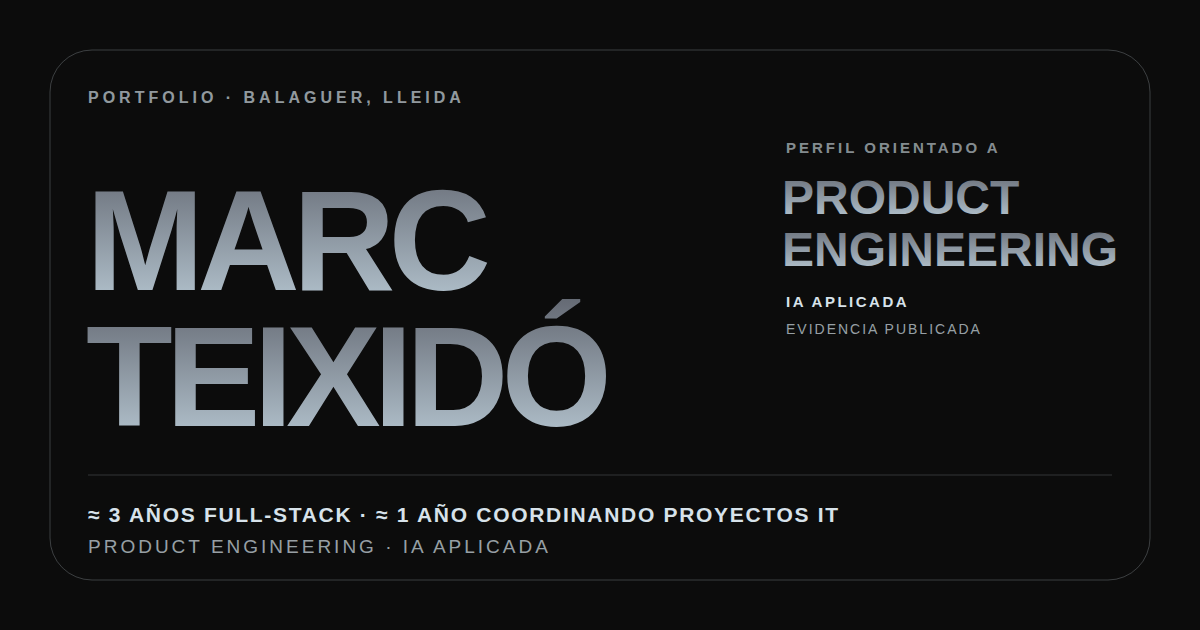
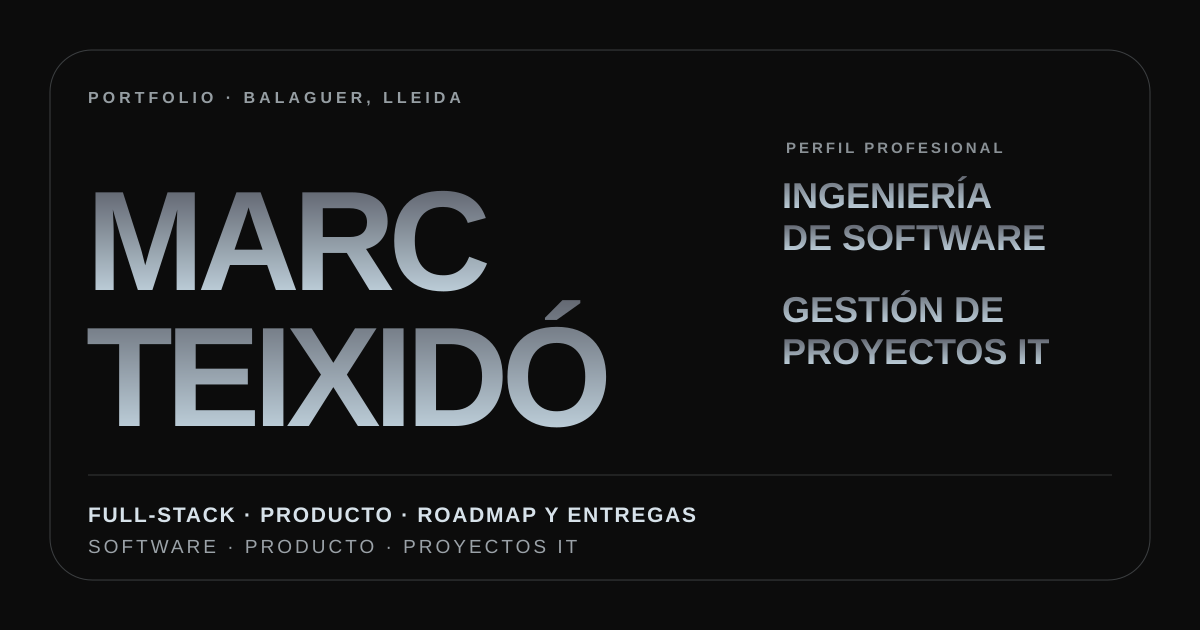
Codex/formation image external links (#19)
* Add course badge and open external links in new tabs

* Highlight university education in the formation section

* Refine contact copy to emphasize IT project management

* Align portfolio copy with software and IT project roles

* Show professional headline as subtitle beneath name

* Update landing image count in performance regression

diff --git a/src/data/portfolio.ts b/src/data/portfolio.ts
@@ -1,4 +1,4 @@
-export const PROFILE_SOURCE_ID = 'profile-2026-08-10' as const
+export const PROFILE_SOURCE_ID = 'profile-2026-09-16' as const
 export const PROJECT_SOURCE_ID = 'public-projects-2026-09-16' as const
 
 export type ProfileFact = {
@@ -90,7 +90,7 @@ export type ProfessionalProfile = {
 export const professionalProfile: ProfessionalProfile = {
   source: {
     id: PROFILE_SOURCE_ID,
-    reviewedAt: '2026-08-10',
+    reviewedAt: '2026-09-16',
     visibility: 'public',
     authority: 'Fuente factual proporcionada por Marc Teixidó Rosauro.',
   },
@@ -99,25 +99,25 @@ export const professionalProfile: ProfessionalProfile = {
     displayName: 'Marc Teixidó',
     location: 'Balaguer, Lleida',
     headline: 'Ingeniero de software y responsable de proyectos IT',
-    positioning: 'Perfil orientado a Product Engineering con foco en IA aplicada',
-    summary: 'Desarrollo software y coordino proyectos desde las necesidades de producto hasta la entrega. Incorporo automatización e IA a procesos de documentación, contenido y monitorización.',
-    aboutIntro: 'He trabajado en desarrollo full-stack, migración de plataformas y coordinación de servicios web, móviles y cloud. Esa experiencia conecta mis decisiones técnicas con las necesidades del producto y del equipo.',
+    positioning: 'Ingeniería de software y gestión de proyectos IT con orientación a producto',
+    summary: 'Desarrollo software y lidero proyectos IT, conectando necesidades de negocio, decisiones técnicas y entrega. Mi experiencia combina desarrollo full-stack con la gestión del roadmap, la coordinación entre departamentos y la ejecución con desarrolladores externos.',
+    aboutIntro: 'Mi trayectoria combina desarrollo de aplicaciones de negocio, migración de plataformas y responsabilidad sobre un producto IoT. Además, desarrollo productos propios, manteniendo una práctica técnica activa y una perspectiva que conecta software, producto y negocio.',
     seo: {
-      title: 'Marc Teixidó — Product Engineering e IA aplicada',
-      description: 'Ingeniería de software, coordinación de proyectos IT e IA aplicada. Experiencia, proyectos y formación de Marc Teixidó, en Balaguer, Lleida.',
-      imageAlt: 'Marc Teixidó — Product Engineering, cerca de 3 años full-stack, alrededor de 1 año coordinando proyectos IT e IA aplicada',
+      title: 'Marc Teixidó — Ingeniería de software y proyectos IT',
+      description: 'Desarrollo full-stack, orientación a producto y gestión de proyectos IT. Experiencia, proyectos y formación de Marc Teixidó.',
+      imageAlt: 'Marc Teixidó — Ingeniero de software y responsable de proyectos IT, con experiencia en desarrollo full-stack y gestión del roadmap.',
     },
   },
   facts: [
     {
-      label: 'Desarrollo full-stack',
-      value: '≈ 3 años',
-      context: 'Software de negocio, datos, despliegues e infraestructura entre 2022 y 2025.',
+      label: 'Desarrollo de software',
+      value: 'Full-stack',
+      context: 'Aplicaciones de negocio con Django, procesos asíncronos, datos y despliegues.',
     },
     {
-      label: 'Liderazgo de proyectos IT',
-      value: '≈ 1 año',
-      context: 'Responsable de proyectos IT en Taurus Research & Development desde 2025.',
+      label: 'Gestión de proyectos IT',
+      value: 'Roadmap y ejecución',
+      context: 'Coordinación entre departamentos y desarrolladores externos, desde las necesidades de producto hasta las entregas.',
     },
   ],
   experience: [
@@ -129,7 +129,7 @@ export const professionalProfile: ProfessionalProfile = {
       endDate: null,
       period: '2025 — Actualidad',
       location: 'Cataluña',
-      summary: 'Coordino el roadmap y el desarrollo de un ecosistema internacional de servicios web, móviles y cloud para un producto de cocina conectado. Trabajo con dirección, distribuidores y desarrolladores externos, traduciendo necesidades de producto en especificaciones, prioridades y entregas. También introduzco automatizaciones con IA en procesos de documentación, contenido y monitorización.',
+      summary: 'Soy responsable del roadmap de un producto IoT con servicios web, móviles y cloud. Coordino su ejecución con desarrolladores externos y hago seguimiento de las entregas. Trabajo con atención al cliente, marketing y comercial para traducir las necesidades del producto en prioridades de desarrollo. Colaboro también con dirección y distribuidores en un entorno internacional. Además, incorporo automatizaciones con IA en procesos de documentación, contenido y monitorización.',
       sourceId: PROFILE_SOURCE_ID,
     },
     {
@@ -140,7 +140,7 @@ export const professionalProfile: ProfessionalProfile = {
       endDate: '2025-06',
       period: '2022 — 2025',
       location: 'Cataluña',
-      summary: 'Fui responsable de migrar la plataforma interna de la empresa a una arquitectura más moderna y escalable. Desarrollé funcionalidades de CRM y ERP, procesos asíncronos con Celery y RabbitMQ, dashboards y modelos predictivos sobre datos de sensores. También gestioné despliegues, migraciones y entornos de test y producción.',
+      summary: 'Fui responsable de la migración de la plataforma interna de la empresa. Desarrollé funcionalidades de CRM y ERP con Django, procesos asíncronos con Celery y RabbitMQ, dashboards y modelos predictivos sobre datos de sensores. Gestioné también despliegues, migraciones y entornos de pruebas y producción.',
       sourceId: PROFILE_SOURCE_ID,
     },
   ],
@@ -149,12 +149,12 @@ export const professionalProfile: ProfessionalProfile = {
     institution: 'Universitat de Lleida',
     startYear: 2018,
     endYear: 2022,
-    context: 'El grado me dio una base transversal en electrónica, automatización y programación. Durante esos años orienté cada vez más mi trabajo hacia el desarrollo de software, los datos y los sistemas conectados.',
+    context: 'El grado me dio una base transversal en electrónica, automatización y programación. Orienté mis optativas hacia el Internet de las Cosas (IoT), la programación y las comunicaciones.',
   },
   languages: [
     { language: 'Catalán', level: 'Nativo', context: 'Uso habitual en entornos personales y profesionales.' },
     { language: 'Español', level: 'Nativo', context: 'Uso habitual en entornos personales y profesionales.' },
-    { language: 'Inglés', level: 'Uso profesional', context: 'Reuniones, documentación y comunicación técnica con equipos y distribuidores internacionales. Sin certificación oficial.' },
+    { language: 'Inglés', level: 'Uso profesional', context: 'Reuniones, documentación y comunicación técnica con equipos y distribuidores internacionales.' },
   ],
   projects: [
     {
@@ -163,12 +163,12 @@ export const professionalProfile: ProfessionalProfile = {
       aliases: ['Ainki'],
       category: 'Producto educativo personal',
       status: 'En desarrollo',
-      availability: 'Landing pública. La aplicación interna todavía no está abierta al público.',
+      availability: 'Presentación y demo públicas. Aplicación interna en desarrollo, todavía sin acceso público.',
       website: 'https://ainkii.mteixido.dev/',
-      websiteLabel: 'Abrir Ainkii',
+      websiteLabel: 'Ver presentación y demo',
       logo: { src: '/media/projects/ainkii-logo.svg', width: 320, height: 100 },
       href: '/proyectos/ainkii/',
-      teaser: 'Contenido, tarjetas de práctica y seguimiento del aprendizaje en un mismo espacio para alumnos y academias. La IA ayuda a preparar materiales bajo revisión humana.',
+      teaser: 'Desarrollo una plataforma educativa que conecta contenidos, tarjetas de práctica y seguimiento del aprendizaje para alumnos y academias. La propuesta incorpora IA para preparar materiales bajo revisión docente.',
       description: 'Estoy desarrollando Ainkii para conectar lo que una academia enseña con lo que sus alumnos comprenden y practican: temarios estructurados, tarjetas vinculadas al contenido y seguimiento del aprendizaje.',
       focus: 'Entender, practicar y reconocer el avance.',
       tags: ['Aprendizaje conectado', 'IA editorial', 'Alumnos y academias'],
@@ -194,7 +194,7 @@ export const professionalProfile: ProfessionalProfile = {
       websiteLabel: 'Abrir ButiPunt',
       logo: { src: '/media/projects/butipunt-logo.svg', width: 320, height: 100 },
       href: '/proyectos/butipunt/',
-      teaser: 'Una aplicación para organizar torneos de butifarra: inscribir parejas, preparar rondas, anotar resultados y consultar la clasificación desde el navegador, sin crear una cuenta.',
+      teaser: 'He creado una aplicación web para organizar torneos presenciales de butifarra: inscripción de parejas, emparejamientos, resultados y clasificación, sin registro y con guardado local.',
       description: 'He creado ButiPunt para llevar la organización de un torneo de butifarra de principio a fin. Reúne parejas, mesas, rondas y clasificación, mientras las partidas se juegan presencialmente.',
       focus: 'El juego, en la mesa. El torneo, organizado.',
       tags: ['Torneos de butifarra', 'Sin registro', 'Guardado local'],

diff --git a/tests/unit/profile.test.ts b/tests/unit/profile.test.ts
@@ -7,26 +7,26 @@ describe('professional profile source', () => {
       fullName: 'Marc Teixidó Rosauro',
       location: 'Balaguer, Lleida',
       headline: 'Ingeniero de software y responsable de proyectos IT',
-      positioning: 'Perfil orientado a Product Engineering con foco en IA aplicada',
-      summary: 'Desarrollo software y coordino proyectos desde las necesidades de producto hasta la entrega. Incorporo automatización e IA a procesos de documentación, contenido y monitorización.',
-      aboutIntro: 'He trabajado en desarrollo full-stack, migración de plataformas y coordinación de servicios web, móviles y cloud. Esa experiencia conecta mis decisiones técnicas con las necesidades del producto y del equipo.',
+      positioning: 'Ingeniería de software y gestión de proyectos IT con orientación a producto',
+      summary: 'Desarrollo software y lidero proyectos IT, conectando necesidades de negocio, decisiones técnicas y entrega. Mi experiencia combina desarrollo full-stack con la gestión del roadmap, la coordinación entre departamentos y la ejecución con desarrolladores externos.',
+      aboutIntro: 'Mi trayectoria combina desarrollo de aplicaciones de negocio, migración de plataformas y responsabilidad sobre un producto IoT. Además, desarrollo productos propios, manteniendo una práctica técnica activa y una perspectiva que conecta software, producto y negocio.',
       seo: {
-        title: 'Marc Teixidó — Product Engineering e IA aplicada',
-        description: 'Ingeniería de software, coordinación de proyectos IT e IA aplicada. Experiencia, proyectos y formación de Marc Teixidó, en Balaguer, Lleida.',
-        imageAlt: 'Marc Teixidó — Product Engineering, cerca de 3 años full-stack, alrededor de 1 año coordinando proyectos IT e IA aplicada',
+        title: 'Marc Teixidó — Ingeniería de software y proyectos IT',
+        description: 'Desarrollo full-stack, orientación a producto y gestión de proyectos IT. Experiencia, proyectos y formación de Marc Teixidó.',
+        imageAlt: 'Marc Teixidó — Ingeniero de software y responsable de proyectos IT, con experiencia en desarrollo full-stack y gestión del roadmap.',
       },
     })
     expect(professionalProfile.source.id).toBe(PROFILE_SOURCE_ID)
     expect(professionalProfile.facts).toEqual([
       {
-        label: 'Desarrollo full-stack',
-        value: '≈ 3 años',
-        context: 'Software de negocio, datos, despliegues e infraestructura entre 2022 y 2025.',
+        label: 'Desarrollo de software',
+        value: 'Full-stack',
+        context: 'Aplicaciones de negocio con Django, procesos asíncronos, datos y despliegues.',
       },
       {
-        label: 'Liderazgo de proyectos IT',
-        value: '≈ 1 año',
-        context: 'Responsable de proyectos IT en Taurus Research & Development desde 2025.',
+        label: 'Gestión de proyectos IT',
+        value: 'Roadmap y ejecución',
+        context: 'Coordinación entre departamentos y desarrolladores externos, desde las necesidades de producto hasta las entregas.',
       },
     ])
   })
@@ -38,12 +38,12 @@ describe('professional profile source', () => {
     ])
     expect(professionalProfile.experience[0]).toMatchObject({
       role: 'Responsable de proyectos IT',
-      summary: 'Coordino el roadmap y el desarrollo de un ecosistema internacional de servicios web, móviles y cloud para un producto de cocina conectado. Trabajo con dirección, distribuidores y desarrolladores externos, traduciendo necesidades de producto en especificaciones, prioridades y entregas. También introduzco automatizaciones con IA en procesos de documentación, contenido y monitorización.',
+      summary: 'Soy responsable del roadmap de un producto IoT con servicios web, móviles y cloud. Coordino su ejecución con desarrolladores externos y hago seguimiento de las entregas. Trabajo con atención al cliente, marketing y comercial para traducir las necesidades del producto en prioridades de desarrollo. Colaboro también con dirección y distribuidores en un entorno internacional. Además, incorporo automatizaciones con IA en procesos de documentación, contenido y monitorización.',
       location: 'Cataluña',
     })
     expect(professionalProfile.experience[1]).toMatchObject({
       role: 'Desarrollador full-stack con Django',
-      summary: 'Fui responsable de migrar la plataforma interna de la empresa a una arquitectura más moderna y escalable. Desarrollé funcionalidades de CRM y ERP, procesos asíncronos con Celery y RabbitMQ, dashboards y modelos predictivos sobre datos de sensores. También gestioné despliegues, migraciones y entornos de test y producción.',
+      summary: 'Fui responsable de la migración de la plataforma interna de la empresa. Desarrollé funcionalidades de CRM y ERP con Django, procesos asíncronos con Celery y RabbitMQ, dashboards y modelos predictivos sobre datos de sensores. Gestioné también despliegues, migraciones y entornos de pruebas y producción.',
       location: 'Cataluña',
     })
     expect(professionalProfile.experience.every(entry => entry.sourceId === PROFILE_SOURCE_ID)).toBe(true)
@@ -59,7 +59,7 @@ describe('professional profile source', () => {
     expect(ainkii).toMatchObject({
       href: '/proyectos/ainkii/',
       website: 'https://ainkii.mteixido.dev/',
-      availability: 'Landing pública. La aplicación interna todavía no está abierta al público.',
+      availability: 'Presentación y demo públicas. Aplicación interna en desarrollo, todavía sin acceso público.',
     })
     expect(butipunt).toMatchObject({
       canonicalName: 'ButiPunt',
@@ -87,12 +87,12 @@ describe('professional profile source', () => {
       institution: 'Universitat de Lleida',
       startYear: 2018,
       endYear: 2022,
-      context: 'El grado me dio una base transversal en electrónica, automatización y programación. Durante esos años orienté cada vez más mi trabajo hacia el desarrollo de software, los datos y los sistemas conectados.',
+      context: 'El grado me dio una base transversal en electrónica, automatización y programación. Orienté mis optativas hacia el Internet de las Cosas (IoT), la programación y las comunicaciones.',
     })
     expect(professionalProfile.languages).toEqual(expect.arrayContaining([
       expect.objectContaining({ language: 'Catalán', level: 'Nativo', context: 'Uso habitual en entornos personales y profesionales.' }),
       expect.objectContaining({ language: 'Español', level: 'Nativo', context: 'Uso habitual en entornos personales y profesionales.' }),
-      expect.objectContaining({ language: 'Inglés', level: 'Uso profesional', context: 'Reuniones, documentación y comunicación técnica con equipos y distribuidores internacionales. Sin certificación oficial.' }),
+      expect.objectContaining({ language: 'Inglés', level: 'Uso profesional', context: 'Reuniones, documentación y comunicación técnica con equipos y distribuidores internacionales.' }),
     ]))
   })
 })

diff --git a/tests/e2e/site.spec.ts b/tests/e2e/site.spec.ts
@@ -51,9 +51,12 @@ test('landing makes projects, formation and contact discoverable', async ({ page
   await expect(page.getByRole('heading', { level: 1, name: 'Marc Teixidó', exact: true })).toBeVisible()
   await expect(page.getByText(professionalProfile.identity.headline, { exact: true })).toBeVisible()
   await expect(page.getByText(professionalProfile.identity.summary, { exact: true })).toBeVisible()
+  const currentEmployment = professionalProfile.experience.find(entry => entry.endDate === null)!
+  await expect(page.locator('section[aria-labelledby="hero-title"]')).not.toContainText(currentEmployment.company)
+  await expect(page.locator('#about')).toContainText(currentEmployment.company)
   await expect(navigation.locator('a')).toHaveText(['Perfil', 'Proyectos', 'Formación', 'Contacto'])
   for (const id of ['about', 'projects', 'formacion', 'contact']) await expect(page.locator(`#${id}`)).toBeVisible()
-  await expect(page.getByRole('link', { name: 'Explorar el aprendizaje', exact: true })).toHaveAttribute('href', '/aprendizaje/')
+  await expect(page.getByRole('link', { name: 'Ver apuntes y ejemplos', exact: true })).toHaveAttribute('href', '/aprendizaje/')
   for (const project of professionalProfile.projects) {
     await expect(page.getByRole('link', { name: `Conocer ${project.canonicalName}`, exact: true })).toHaveAttribute('href', project.href)
     await expect(page.getByRole('link', { name: project.websiteLabel, exact: true })).toHaveAttribute('href', project.website)
@@ -69,7 +72,17 @@ test('landing makes projects, formation and contact discoverable', async ({ page
   await expect(page.locator('#formacion')).toContainText('En curso · IBM / Coursera')
   await expect(page.locator('#formacion')).toContainText('Estoy cursando esta especialización')
   await expect(page.locator('#formacion')).not.toContainText('AWS')
-  await expect(page.locator('#formacion article')).toHaveCount(1)
+  await expect(page.locator('#formacion article')).toHaveCount(2)
+  const formationCards = await page.locator('#formacion article').evaluateAll(cards => cards.map(card => {
+    const bounds = card.getBoundingClientRect()
+    const container = card.parentElement!.getBoundingClientRect()
+    return { left: bounds.left, right: bounds.right, containerLeft: container.left, containerRight: container.right }
+  }))
+  for (const card of formationCards) {
+    expect(card.left).toBeGreaterThanOrEqual(card.containerLeft - 1)
+    expect(card.right).toBeLessThanOrEqual(card.containerRight + 1)
+  }
+  await expect(page.locator('#formacion article').first()).toContainText(professionalProfile.education.qualification)
   await expect(page.locator('a[href="/career-sprint-daily/"], a[href="/roadmap/"]')).toHaveCount(0)
   expect(remoteRequests).toEqual([])
 })
@@ -96,10 +109,10 @@ test('mobile navigation labels fit inside their own targets', async ({ page }, i
 test('learning follows the courses with inline explanations and stable earlier URLs', async ({ page }, info) => {
   test.skip(!['chromium', 'chromium-mobile-320', 'chromium-js-off'].includes(info.project.name))
   await page.goto('/')
-  await expect(page.locator('#about [data-education]')).toContainText(professionalProfile.education.qualification)
-  await expect(page.locator('#formacion')).not.toContainText(professionalProfile.education.qualification)
+  await expect(page.locator('#formacion [data-education]')).toContainText(professionalProfile.education.qualification)
+  await expect(page.locator('#about')).not.toContainText(professionalProfile.education.qualification)
   await expect(page.getByText(professionalProfile.education.qualification, { exact: false })).toHaveCount(1)
-  await page.getByRole('link', { name: 'Explorar el aprendizaje', exact: true }).click()
+  await page.getByRole('link', { name: 'Ver apuntes y ejemplos', exact: true }).click()
   await expect(page.getByRole('heading', { level: 1, name: 'Aprender a construir con LLMs' })).toBeVisible()
   await expect(page.locator('.course-section')).toHaveCount(4)
   await expect(page.locator('.course-section:visible')).toHaveCount(1)
@@ -153,7 +166,7 @@ test('pending courses remain visible but cannot be opened, including by direct h
     const pending = nav.getByRole('button', { name: new RegExp(course.title) })
     await expect(pending).toBeVisible()
     await expect(pending).toBeDisabled()
-    await expect(pending).toContainText('Pendiente')
+    await expect(pending).toContainText('Contenido no publicado')
     await pending.click({ force: true })
     await expect(page).toHaveURL(/#curso-4$/)
     await expect(page.locator('.course-section:visible')).toHaveAttribute('id', 'curso-4')
@@ -383,7 +396,7 @@ test('primary navigation moves focus to visible landing anchors', async ({ page,
   await page.goto('/')
   await navigation.getByRole('link', { name: 'Formación', exact: true }).click()
   await expect(page).toHaveURL(/\/#formacion$/)
-  await expect(page.getByRole('heading', { name: 'IA generativa', exact: true })).toBeFocused()
+  await expect(page.getByRole('heading', { level: 2, name: 'Formación', exact: true })).toBeFocused()
 
   await page.goto('/')
   const contactLink = navigation.getByRole('link', { name: 'Contacto', exact: true })
@@ -441,10 +454,10 @@ test('project navigation completes native transitions and respects reduced motio
     }
     await page.getByRole('link', { name: 'Volver a los proyectos', exact: true }).first().click()
     await expect(page).toHaveURL(/\/#projects$/)
-    await expect(page.getByRole('heading', { name: 'Ideas en práctica', exact: true })).toBeInViewport()
+    await expect(page.getByRole('heading', { name: 'Proyectos de software', exact: true })).toBeInViewport()
     if (javaScriptEnabled !== false) {
       await expect(page.locator('html')).toHaveAttribute('data-transition-result', info.project.name === 'chromium-reduced-motion' ? 'none' : 'finished')
-      await expect(page.getByRole('heading', { name: 'Ideas en práctica', exact: true })).toBeFocused()
+      await expect(page.getByRole('heading', { name: 'Proyectos de software', exact: true })).toBeFocused()
     }
   }
 })

diff --git a/tests/static-output.test.ts b/tests/static-output.test.ts
@@ -132,7 +132,7 @@ describe('static output', () => {
         expect(index).not.toContain(`id="${course.id}"`)
         expect(index).not.toContain(`href="#${course.id}"`)
         expect(index).not.toContain(escapeHtmlText(course.description))
-        expect(index).toContain(`${escapeHtmlText(course.title)}<small>Pendiente</small>`)
+        expect(index).toContain(`${escapeHtmlText(course.title)}<small>Contenido no publicado</small>`)
       }
     }
     for (const id of conceptIds) {
@@ -152,14 +152,15 @@ describe('static output', () => {
     expect(statSync(join(dist, 'og-card.svg')).size).toBeGreaterThan(500)
     expect(statSync(join(dist, 'og-card.png')).size).toBeGreaterThan(10_000)
     const currentEmployment = professionalProfile.experience.find(entry => entry.endDate === null)!
-    expect(html).toContain(`${currentEmployment.role} en ${escapeHtmlText(currentEmployment.company)}`)
+    expect(html).toContain(escapeHtmlText(currentEmployment.company))
+    expect(html).not.toContain(`${currentEmployment.role} en ${escapeHtmlText(currentEmployment.company)}`)
     expect(html).toContain(professionalProfile.identity.seo.description)
     expect(html).toContain(professionalProfile.identity.seo.imageAlt)
     expect(ogCard).toContain('PORTFOLIO · BALAGUER, LLEIDA')
-    expect(ogCard).toContain('Product Engineering e IA aplicada')
-    expect(ogCard).toContain('PRODUCT ENGINEERING · IA APLICADA')
-    expect(ogCard).toContain('≈ 3 AÑOS FULL-STACK · ≈ 1 AÑO COORDINANDO PROYECTOS IT')
-    expect(ogCard).toContain('EVIDENCIA PUBLICADA')
+    expect(ogCard).toContain('Ingeniería de software y proyectos IT')
+    expect(ogCard).toContain('SOFTWARE · PRODUCTO · PROYECTOS IT')
+    expect(ogCard).toContain('FULL-STACK · PRODUCTO · ROADMAP Y ENTREGAS')
+    expect(ogCard).toContain('PERFIL PROFESIONAL')
     expect(ogCard.toUpperCase()).not.toContain('AINKII')
     expect(ogCard).not.toContain('id="panel"')
     expect(ogCard).not.toContain('CATALUÑA')

diff --git a/tests/e2e/performance.spec.ts b/tests/e2e/performance.spec.ts
@@ -84,7 +84,8 @@ test('@performance landing keeps a bounded first-party document', async ({ page 
     }
   })
   expect(report.elements).toBeLessThan(700)
-  expect(report.images).toBe(2)
+  // Two project logos, plus the university and ongoing specialization images.
+  expect(report.images).toBe(4)
   expect(report.thirdParty).toEqual([])
   expect(report.transfer).toBeLessThan(750 * 1024)
 })

diff --git a/src/data/README.md b/src/data/README.md
@@ -4,9 +4,13 @@ El sitio es estático: el perfil y el catálogo de cursos viven en TypeScript; l
 
 ## Formación y aprendizaje por cursos
 
-La portada presenta experiencia, Ainkii y ButiPunt, formación continua y contacto. El grado universitario aparece una sola vez en el perfil; `FormationSection.astro` presenta la especialización IBM/Coursera como formación en curso. El bloque de formación prevista en AWS se ha retirado.
+La portada presenta experiencia, Ainkii y ButiPunt, formación académica y continua y contacto. `FormationSection.astro` presenta primero el grado en Ingeniería Electrónica Industrial y Automática, en una tarjeta destacada con la Universitat de Lleida, el periodo 2018–2022 y el contexto de `professionalProfile.education`. El grado aparece una sola vez en la portada y ya no se incluye en Experiencia. Debajo se presenta la especialización IBM/Coursera como formación en curso. El bloque de formación prevista en AWS se ha retirado.
 
-`src/data/learningCourses.ts` define los siete cursos de Generative AI Engineering with LLMs, en el orden del programa oficial de IBM consultado el 7 de septiembre de 2026. Cada entrada conserva el título y enlace oficiales, una explicación propia en español y conceptos o diagramas. `available` controla si se publica su contenido: los cursos 1–4 están disponibles; los cursos 5–7 aparecen como botones deshabilitados con la etiqueta «Pendiente» y su contenido no se emite. La disponibilidad de una explicación no acredita la finalización del curso ni una certificación.
+El emblema circular de la Universitat de Lleida — Escola Politècnica Superior procede de la imagen proporcionada por el propietario el 16 de septiembre de 2026. El original se conserva en `src/assets/universitat-lleida-eps.png`; Astro genera una versión PNG a su tamaño nativo de 364 × 364 píxeles para servirlo localmente. Se mantienen las proporciones y los colores, dentro de un marco blanco cuadrado con esquinas redondeadas, del mismo tamaño y con el mismo margen interior que la imagen de IBM/Coursera. El marco pertenece al contenedor; la imagen tiene un contorno circular propio para evitar el remate plano del borde inferior del archivo original.
+
+La imagen de la especialización se sirve desde `public/media/certifications/generative-ai-engineering-with-llms.png`, proporcionada por el propietario el 16 de septiembre de 2026. Se conserva el archivo original completo, sin recortes; identifica el programa y no cambia su estado de formación en curso.
+
+`src/data/learningCourses.ts` define los siete cursos de Generative AI Engineering with LLMs, en el orden del programa oficial de IBM consultado el 7 de septiembre de 2026. Cada entrada conserva el título y enlace oficiales, una explicación propia en español y conceptos o diagramas. `available` controla si se publica su contenido: los cursos 1–4 están disponibles; los cursos 5–7 aparecen como botones deshabilitados con la etiqueta «Contenido no publicado» y su contenido no se emite. La disponibilidad de una explicación no acredita la finalización del curso ni una certificación.
 
 - `/aprendizaje/` muestra solo el curso seleccionado, mediante los enlaces `#curso-1` a `#curso-4`; al entrar sin un curso disponible muestra el primero, incluidos los enlaces directos a los cursos pendientes. La selección funciona con CSS incluso sin JavaScript y conserva enlaces directos e historial, sin plantilla de blog, fechas ni tiempos de lectura.
 - `LearningLab.astro`, `src/lib/learningLabs.ts` y `src/scripts/learningLabs.ts` implementan ejemplos deterministas de tokenización, bolsa de palabras y máscara de atención. Funcionan localmente, sin APIs ni modelos reales. La tokenización ilustrativa se etiqueta como tal.
@@ -22,6 +26,12 @@ La primera edición procede de las notas públicas de agosto: tokenización y da
 `src/data/portfolio.ts` contiene únicamente los hechos compactos que siguen siendo públicos: identidad, experiencia verificable, formación, idiomas, contactos y proyectos personales. `professionalProfile.identity` centraliza el copy del Hero, la introducción de Perfil y el SEO de Home. La experiencia actual se publica con el empleador autorizado `Taurus Research & Development` y la descripción detallada proporcionada; no debe recuperar datos adicionales de operación interna, proveedores, cifras, arquitectura o calendarios, ni reintroducir Hermes.
 
 `professionalProfile.source.id` identifica la procedencia factual del perfil. Los proyectos usan `PROJECT_SOURCE_ID` (`public-projects-2026-09-16`): sus descripciones se revisaron con las landings públicas y el estado de acceso confirmado por el propietario el 16 de septiembre de 2026.
+
+La revisión del perfil `profile-2026-09-16` incorpora el alcance confirmado por el propietario: responsabilidad sobre el roadmap de un producto IoT y su ejecución con desarrolladores externos, además de coordinación entre atención al cliente, marketing y comercial. La presentación equilibra desarrollo full-stack, orientación a producto y gestión de proyectos IT; los bloques destacados muestran capacidades en lugar de contadores de años. Las fechas y los cargos se mantienen en la trayectoria. El curso de IBM describe el objetivo de construir aplicaciones con modelos de lenguaje y conserva el estado «En curso». El contacto contempla oportunidades de desarrollo o gestión. No se atribuyen presupuestos, tamaño de equipo ni autoridad jerárquica adicionales.
+
+La identidad, los metadatos y la tarjeta para compartir usan el mismo posicionamiento. `public/og-card.svg` es la fuente editable de `public/og-card.png`, que se sirve como imagen social de 1200 × 630 píxeles; ambos deben actualizarse juntos.
+
+El Hero muestra el nombre, el titular profesional como subtítulo debajo y el resumen. El subtítulo «Ingeniero de software y responsable de proyectos IT» reutiliza el tamaño y peso del antiguo subtítulo de empleo, sin repetirlo encima del nombre ni añadir la empresa. Taurus se conserva en la trayectoria profesional y en los datos estructurados de empleo.
 
 - [Ainkii](https://ainkii.mteixido.dev/): producto para alumnos y academias; conecta temarios, conocimientos, tarjetas y seguimiento. Permanece «En desarrollo»: solo la landing y su demostración de ejemplo son públicas; la aplicación interna no está abierta al público. No enlazar el login como una aplicación disponible ni presentar datos de demostración como uso real.
 - [ButiPunt](https://butipunt.mteixido.dev/): gestor disponible de torneos presenciales de butifarra, sin registro y con guardado en el navegador. No promete juego en línea ni sincronización entre dispositivos.
@@ -54,6 +64,8 @@ Rutas públicas:
 Las rutas retiradas responden con la página 404 y no se reutilizan.
 
 La navegación entre documentos usa View Transitions nativas mediante `@view-transition` en `src/index.css`: fundido de página y un nombre compartido por logo en `ProjectBrand.astro`. Los enlaces de vuelta de ambos proyectos apuntan a `/#projects`. Se desactivan las transiciones con `prefers-reduced-motion: reduce` o JavaScript deshabilitado; los navegadores sin soporte conservan la navegación normal. No se incorpora un router cliente ni cambia el ciclo de ejecución de los scripts de aprendizaje. El foco inicial de las anclas se aplica tras `pageshow` para respetar el desplazamiento nativo; las entradas de historial restauradas desde caché mantienen su posición y foco.
+
+Los enlaces a dominios o subdominios externos (Ainkii, ButiPunt, LinkedIn y Coursera) se abren en una nueva pestaña mediante `target="_blank"` y `rel="noopener noreferrer"`. LinkedIn conserva además `rel="me"`. Los enlaces internos, las anclas y las acciones de correo mantienen su comportamiento habitual.
 
 ## Editar y verificar
 
